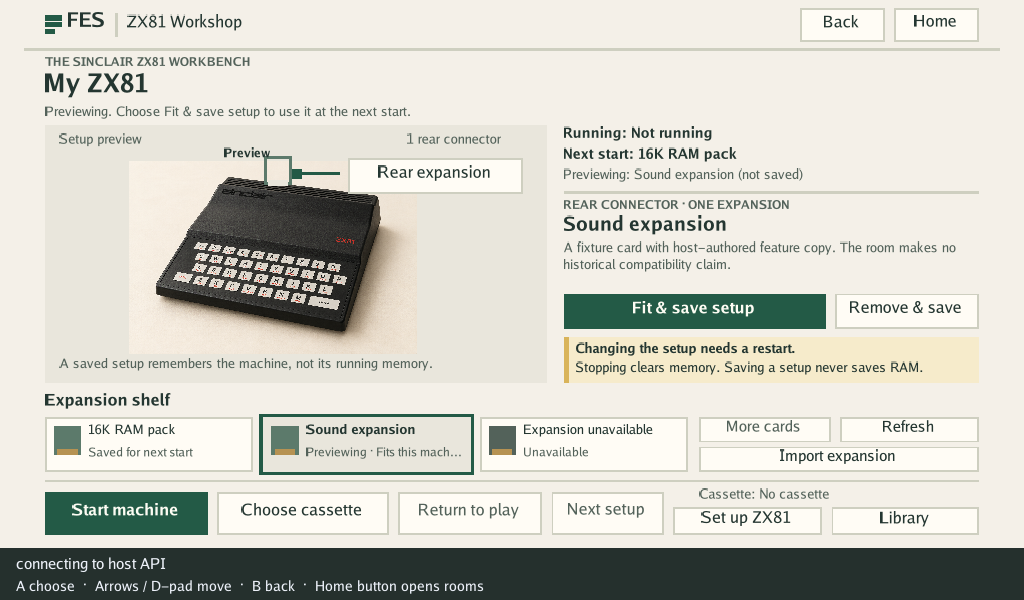
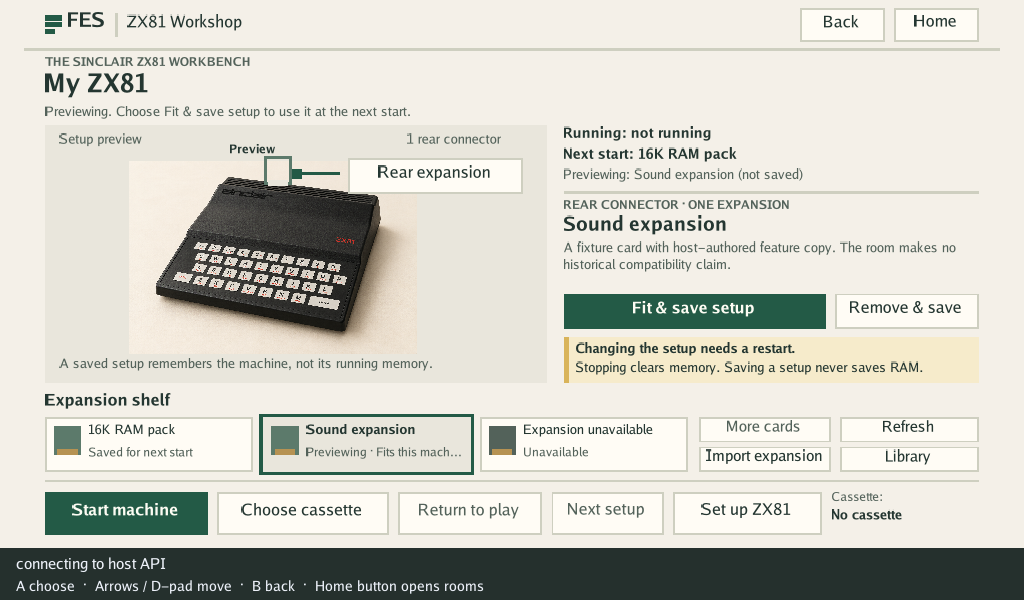
FogCast: Workshop review fixes: unknown Running, tools grid, text fit (#797)
Independent review of 19dd53da found:
- "Running: Not running" was shown with no session reading (host status
  failed, or before the first read). Running is now "unknown"/"checking…"
  without a reading, names other session states, and a stale reading is
  marked "may be out of date".
- Import expansion was reachable by Direction only from Back. The setup
  tools are now a two-column grid (More cards/Refresh over Import/Library)
  and a test walks Direction from every control.
- The "Fitted for next start" tag clipped at 1024 wide (now "Next start");
  the info line regained its full width; descriptions end in an ellipsis.
- An unavailable card is no longer drawn on the machine as a preview, and
  Remove & save clears the inspected card. The doc label matches.

diff --git a/sources/FogCast/ui/rooms/hardware_test.go b/sources/FogCast/ui/rooms/hardware_test.go
@@ -136,10 +136,10 @@ func TestHardwareRoomRestoresFocusAndUsesOrdinaryLaunch(t *testing.T) {
 		t.Fatalf("focus/launch lost on return: %+v", acts)
 	}
 	// A direction route reaches another control; pointer isn't required.
-	// The machine row runs Start, cassette, Return to play, Next setup,
-	// then the setup tools Set up ZX81 and Library.
-	for i := 0; i < 5; i++ {
-		r.Input("right")
+	// Along the machine row to Set up ZX81, up into the setup tools to
+	// Import expansion, then right to Library.
+	for _, dir := range []string{"right", "right", "right", "right", "up", "right"} {
+		r.Input(dir)
 	}
 	r.Input("select")
 	if acts = r.TakeActions(); len(acts) != 1 || acts[0].Kind != ActionOpenLibrary {
@@ -336,5 +336,78 @@ func TestKitHardwareRoomHidesComputerTapeWithoutPlane(t *testing.T) {
 	r.Activate("tape")
 	if acts := r.TakeActions(); len(acts) != 0 {
 		t.Fatalf("computer tape without session display opened the picker: %+v", acts)
+	}
+}
+
+func hardwareFocus(t *testing.T, r *Instance) string {
+	t.Helper()
+	nav, _ := r.store.values["navigation"].(map[string]any)
+	if nav == nil {
+		// store.set keeps Lua tables as converted Go values.
+		if m, ok := r.store.values["navigation"].(map[any]any); ok {
+			if f, ok := m["focus"].(string); ok {
+				return f
+			}
+		}
+		t.Fatalf("no navigation in store: %#v", r.store.values["navigation"])
+	}
+	f, _ := nav["focus"].(string)
+	return f
+}
+
+// Every control is reachable with Direction alone, and each tool sits next
+// to its neighbours, so nothing depends on a pointer or on Tab order.
+func TestHardwareRoomEveryControlReachableByDirection(t *testing.T) {
+	r := loadHardware(t, hardwareData(false), examplePack(t, "example.hardware"))
+	f := r.Step(time.Unix(50, 0))
+	var ids []string
+	for _, hit := range f.Hits {
+		ids = append(ids, hit.ID)
+	}
+	edges := map[string][]string{}
+	for _, id := range ids {
+		for _, dir := range []string{"up", "down", "left", "right"} {
+			r.Hover(id)
+			r.Input(dir)
+			edges[id] = append(edges[id], hardwareFocus(t, r))
+		}
+	}
+	seen := map[string]bool{"power": true}
+	queue := []string{"power"}
+	for len(queue) > 0 {
+		id := queue[0]
+		queue = queue[1:]
+		for _, next := range edges[id] {
+			if !seen[next] {
+				seen[next] = true
+				queue = append(queue, next)
+			}
+		}
+	}
+	for _, id := range ids {
+		if !seen[id] {
+			t.Fatalf("%s is not reachable by Direction from Start: %v", id, edges)
+		}
+	}
+	// The tools are a grid: Import sits under More cards, Library under Refresh.
+	step := func(from, dir string) string { r.Hover(from); r.Input(dir); return hardwareFocus(t, r) }
+	if got := step("shelf_page", "down"); got != "import_card" {
+		t.Fatalf("Down from More cards = %s", got)
+	}
+	if got := step("refresh", "down"); got != "library" {
+		t.Fatalf("Down from Refresh = %s", got)
+	}
+}
+
+// Without a session reading the room says Running is unknown, never that
+// the machine is not running.
+func TestHardwareRoomRunningIsUnknownWithoutASessionReading(t *testing.T) {
+	s := hardwareData(false)
+	s.value.Session = nil
+	s.value.SessionError = "target unreachable"
+	r := loadHardware(t, s, examplePack(t, "example.hardware"))
+	f := stepUntil(t, r, func(f Frame) bool { return frameHas(f, "Running: unknown") })
+	if frameHas(f, "Running: not running") || frameHas(f, "Running: Not running") {
+		t.Fatal("unknown session shown as not running")
 	}
 }

diff --git a/docs/hardware-rooms.md b/docs/hardware-rooms.md
@@ -15,10 +15,11 @@ The room follows the Retro Workshop direction in [the UX brief](ux/README.md).
 The setup column shows **Running**, **Next start** and, while an unsaved card is
 inspected, **Previewing … (not saved)** together. The machine illustration
 draws the saved card solid and an inspected card outlined with a **Preview**
-label. The restart and memory consequences sit beside **Fit & save setup**.
+label. Without a session reading, **Running** says unknown rather than not
+running. The restart and memory consequences sit beside **Fit & save setup**.
 
 Choose a card on the shelf to inspect its description, then **Fit & save
-setup**. **Remove & save setup** clears the connector. Both actions save the
+setup**. **Remove & save** clears the connector. Both actions save the
 core entry on the host, so another LAN client reads the same choice. **Next
 setup** cycles existing ZX81 entries. These are saved hardware selections for
 the next start, not snapshots of running memory.

diff --git a/docs/validation/2026-10-17-ux-zx81-workshop/README.md b/docs/validation/2026-10-17-ux-zx81-workshop/README.md
@@ -29,9 +29,21 @@ Both sizes are captured for every scene.
 
 ## Checks
 
-The existing hardware-room tests pass unchanged, except one Direction count:
-the regrouped machine row puts Set up ZX81 between Next setup and Library.
-That test still proves Direction alone reaches Library.
+- The existing hardware-room tests pass. One Direction route changed with the
+  regrouped controls; that test still proves Direction alone reaches Library.
+- New: every control is reachable by Direction from Start, and the setup tools
+  form a grid (Import under More cards, Library under Refresh).
+- New: without a session reading the room says "Running: unknown", never
+  "not running".
+- An independent agent review of the first commit found:
+  - the unknown-session claim
+  - Import expansion reachable only from Back
+  - a clipped tag at 1024 wide
+  - narrowed info and description text
+  - a stale doc label
+  - an unavailable card drawn as a preview
+
+  All are fixed.
 
 ## Not covered
 

diff --git a/docs/ux/README.md b/docs/ux/README.md
@@ -423,7 +423,8 @@ kit are pending.
   accent-outline focus.
 - **Three states together.** The setup column reads "Running: …", "Next start:
   …" and, while an unsaved card is inspected, "Previewing: … (not saved)".
-  "Restart needed" says what to do.
+  "Restart needed" says what to do. Without a session reading, Running is
+  "unknown", and a stale reading is marked "may be out of date".
 - **Preview is not fitted.** The illustration draws the saved card solid
   ("Fitted for next start") and an inspected card outlined ("Preview").
 - **Consequences beside the change.** A warm box under Fit & save says that a
